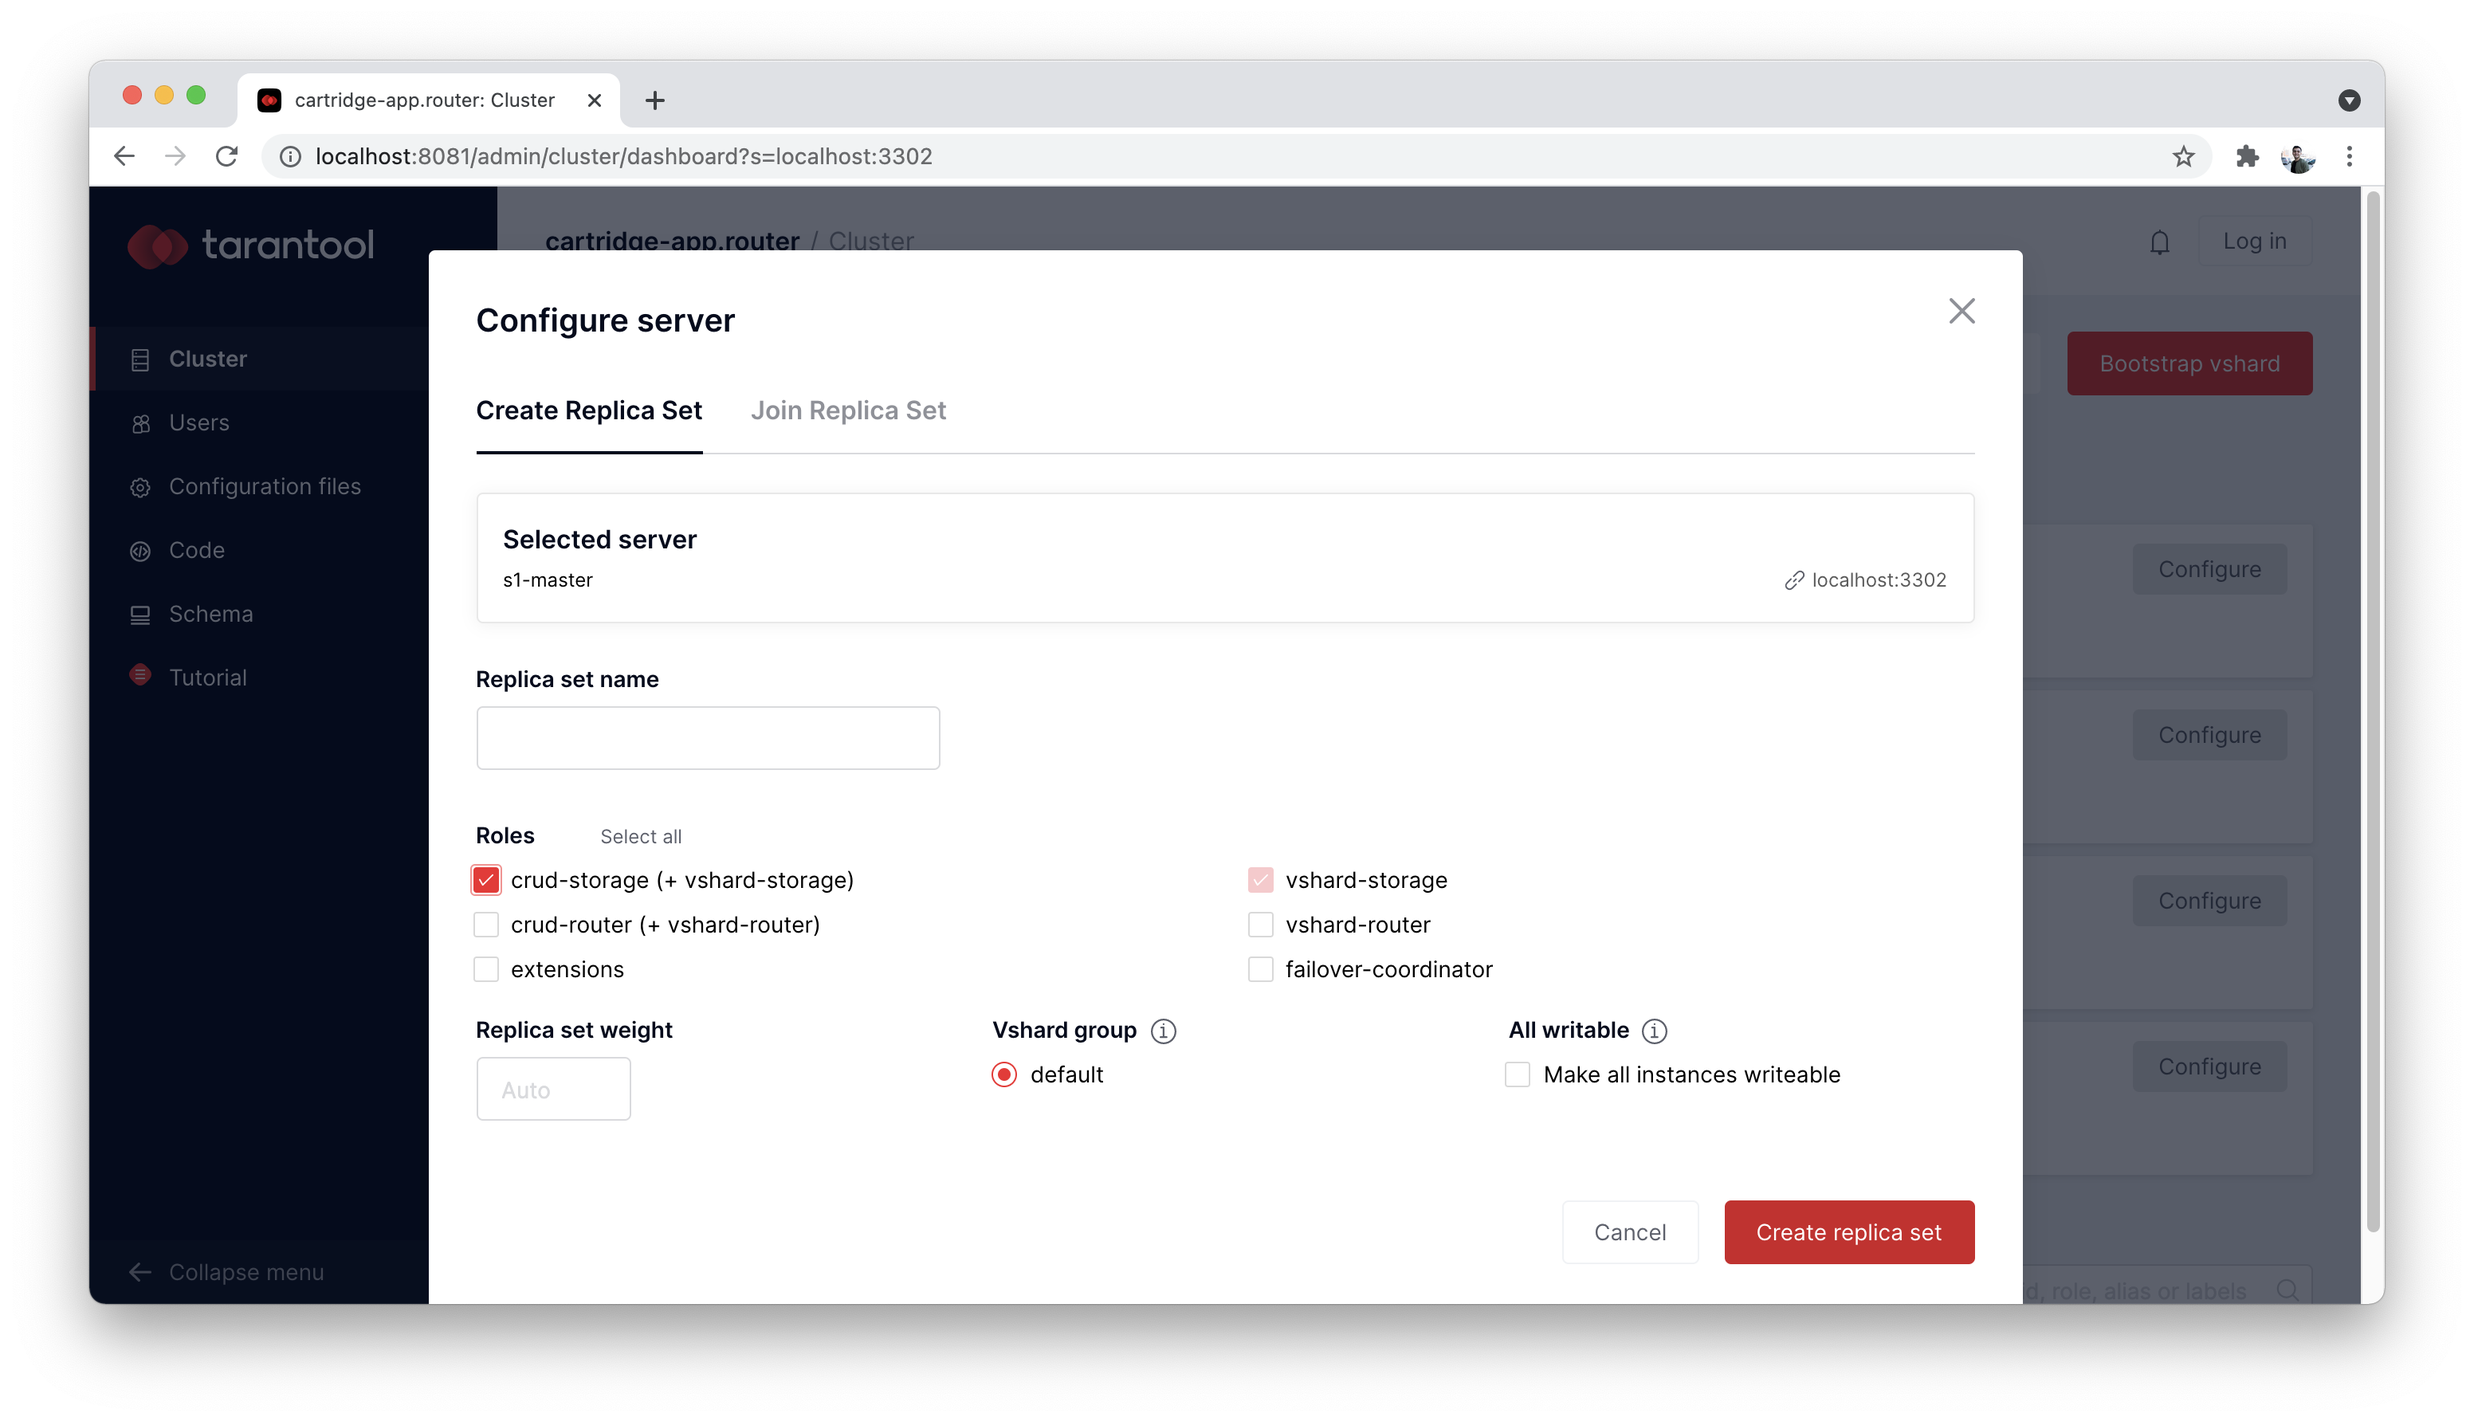
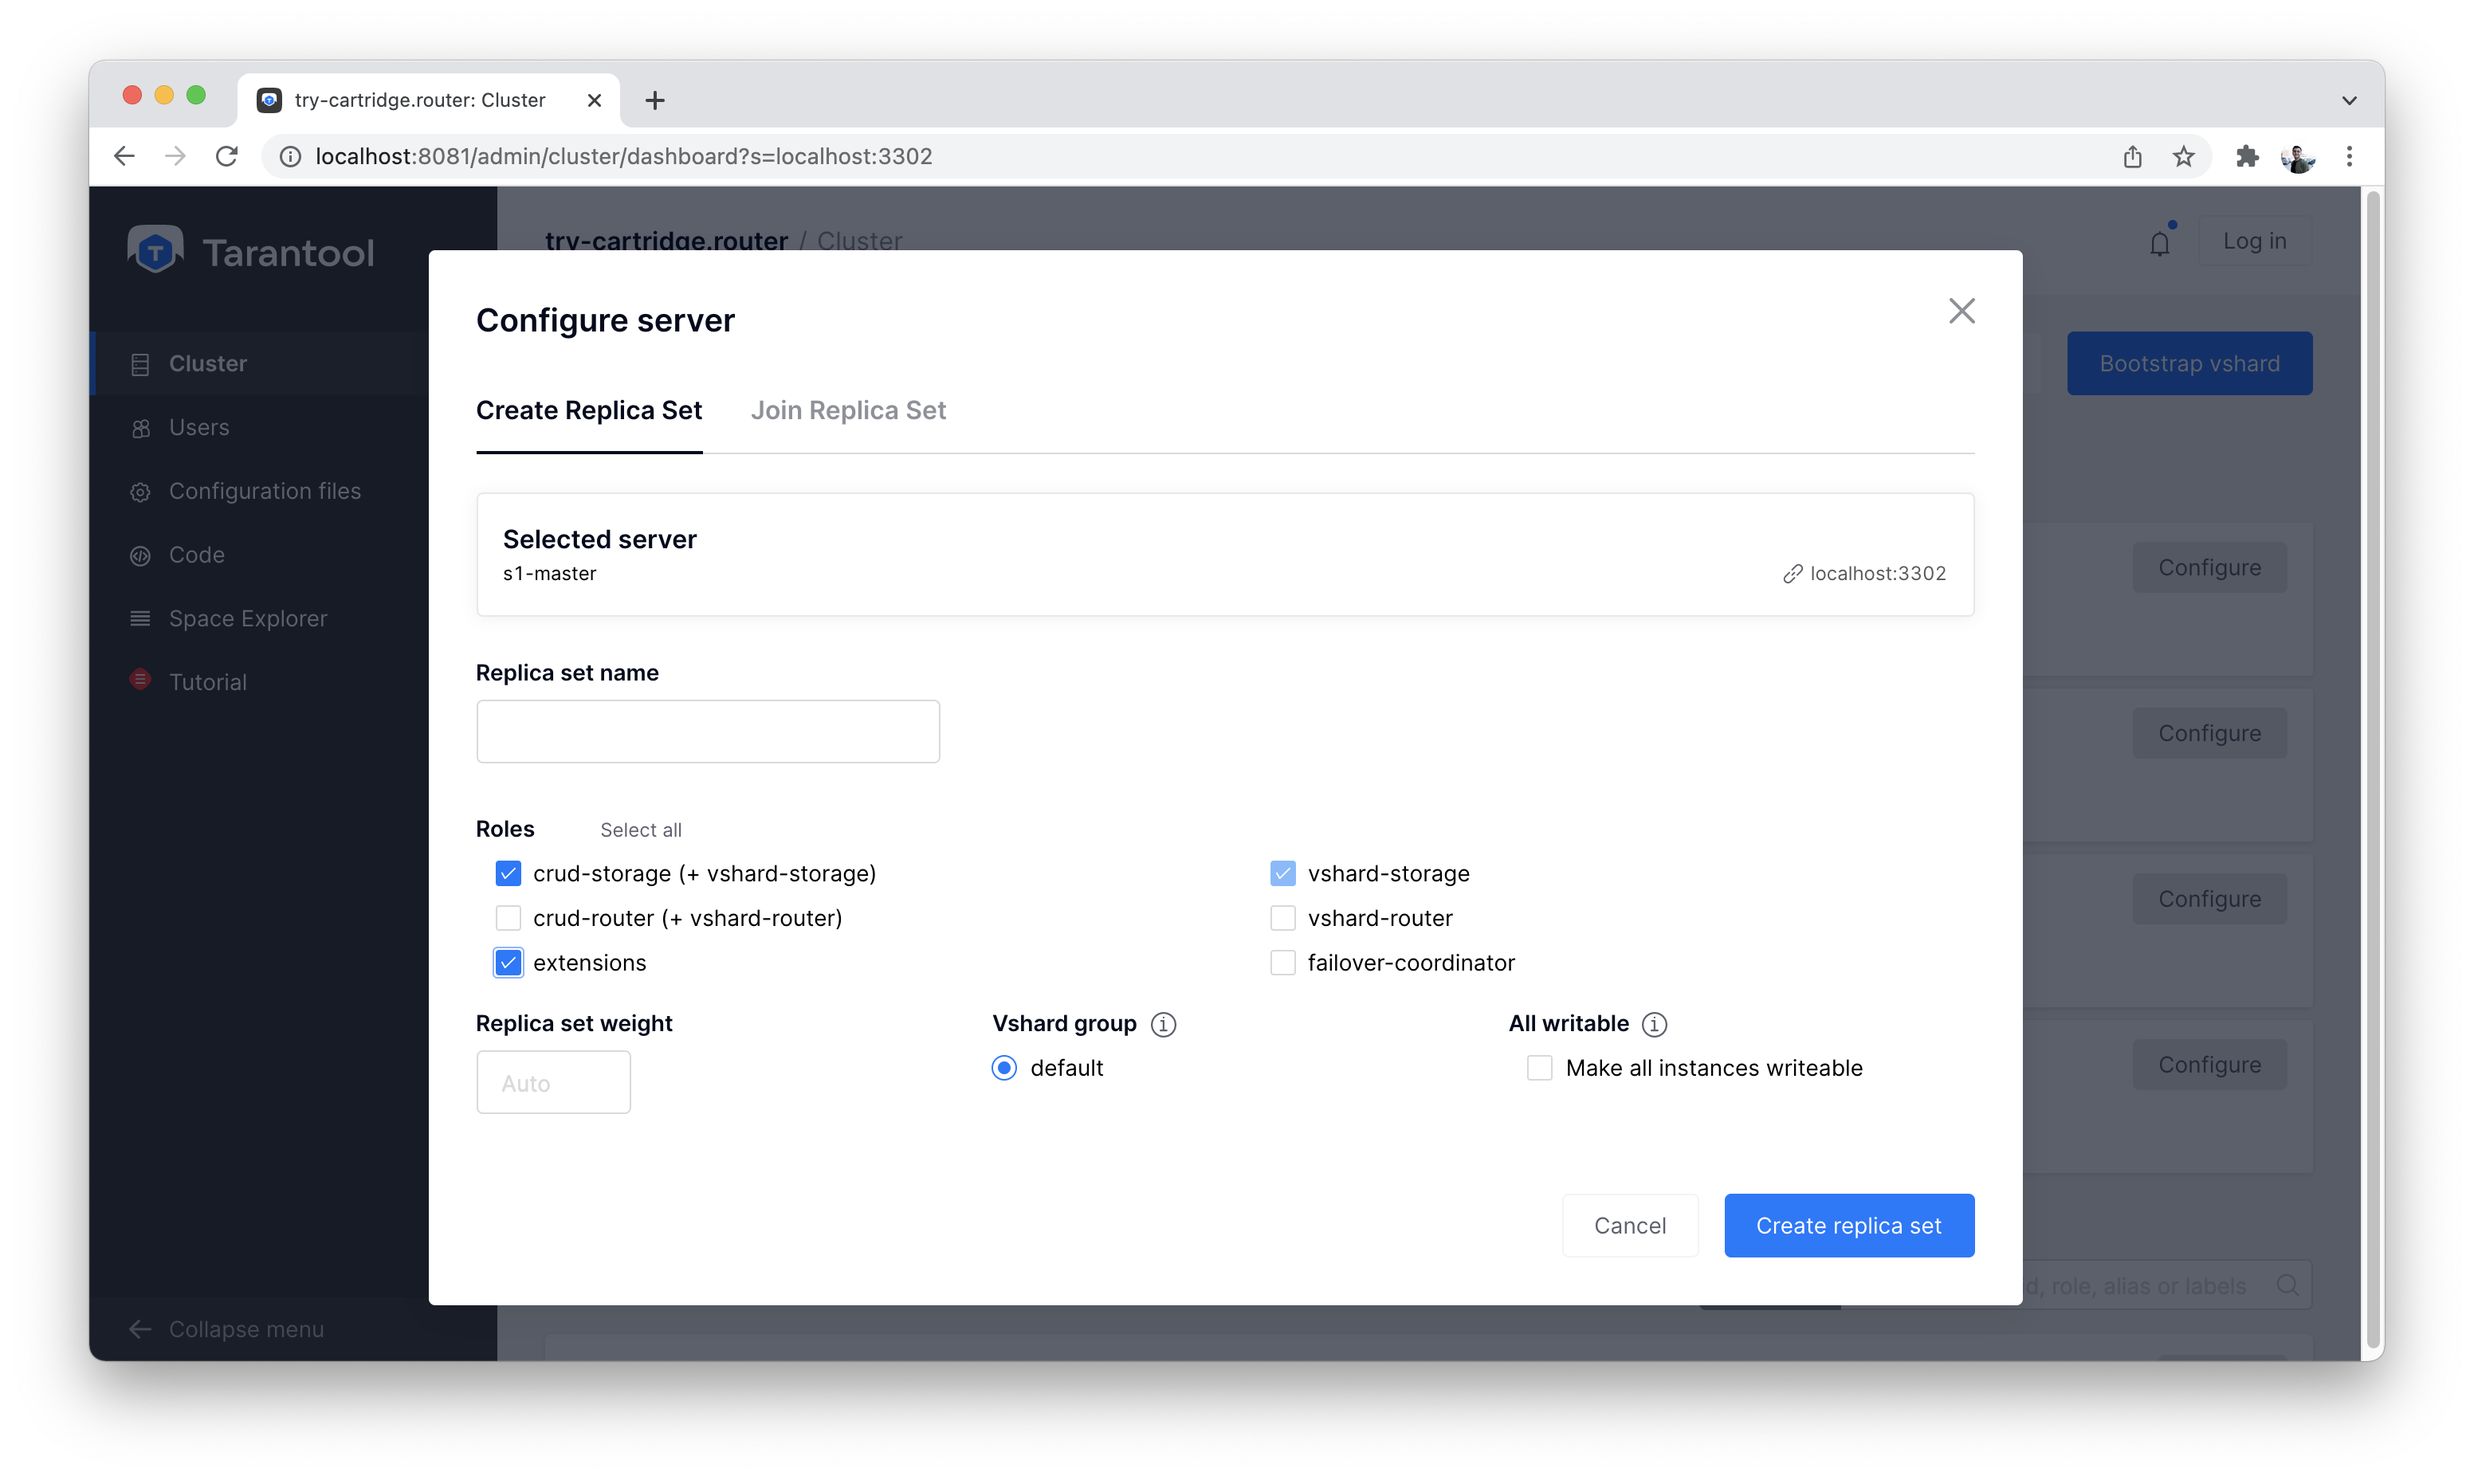
Update screenshots (#41)
* tutorial: update screenshots

* Revert "Merge pull request #26 from tarantool/20_make_extension_permanent"

It's because a user can not understand: why `extension` are not available at the default Cartridge installation.

* tutorial: add mention about docker way

diff --git a/front/tutorial/ru/index.md b/front/tutorial/ru/index.md
@@ -160,9 +160,9 @@ Tarantool.
 
 Их два для каждого спейса:
 
--   первый --- это первичный ключ. Необходим для того, чтобы
+-   первый — это первичный ключ. Необходим для того, чтобы
     читать/писать данные
--   второй --- это индекс для поля `bucket_id`. Это поле служебное и
+-   второй — это индекс для поля `bucket_id`. Это поле служебное и
     используется при шардировании.
 
 **Важно:** название `bucket_id` зарезервированное. Если вы выберите
@@ -354,8 +354,6 @@ Storage получить необходимую информацию.
 Создадим второй шард. Нажимаем на вкладку \"Cluster\", выбираем
 `s2-master` и нажимаем \"Configure\". Выбираем роли так как на картинке:
 
-![Space Explorer, хост s1-master](images/s1-master.png)
-
 ![Cluster, экран конфигурации нового шарда](images/configuring-server.png)
 
 Шелкаем на нужные роли и создаем шард (репликасет).
@@ -377,6 +375,8 @@ Storage получить необходимую информацию.
 Кое-что уже произошло. Зайдем в space-explorer и перейдем на узел
 `s2-master`. Оказывается, часть данных с первого шарда переехала сюда
 автоматически! Масштабирование происходит автоматически.
+
+![Cluster, просмотр узла s2-master](images/scaling.png)
 
 Теперь попробуем добавить еще новых данные в кластер через HTTP API.
 Можем проверить и убедиться, что новые данные также равномерно
@@ -435,9 +435,13 @@ Cartridge.
 
 **Для пользователей Windows:**
 
--   Используйте Docker контейнер с centOS 8 или
--   используйте механизм WSL и следуйте инструкции по установке под
-    Linux.
+Используйте Docker:
+
+```bash
+docker run -p 3301: 3301 -p 8081: 8081 ghcr.io/tarantool/getting-started
+```
+
+Готово! На странице браузера http://localhost:8081 вы сможете увидеть UI Tarantool'а.
 
 ## Читайте также
 

diff --git a/front/tutorial/en/index.md b/front/tutorial/en/index.md
@@ -292,8 +292,6 @@ Read [more in the documentation](https://www.tarantool.io/en/doc/latest/referenc
 
 Create a second shard. Go to the Cluster tab, select `s2-master`, and click Configure. Select the roles as shown in the picture:
 
-![Space Explorer, host s1-master](images/s1-master.png)
-
 ![Space Explorer, configuring new shard](images/configuring-server.png)
 
 Click on the roles and create a shard (replicaset).
@@ -307,6 +305,8 @@ Now you have two shards, or two logical nodes that receive data. The router dete
 To enable a new shard, you have to set its weight to one. Go back to the Cluster tab, open the `s2-master` settings, set Replica set weight to "1" and apply.
 
 Something has already happened. Go to space-explorer and open the `s2-master` node. It turns out that some of the data from the first shard has already migrated here! The scaling is done automatically.
+
+![Cluster, s2-master viewing](images/scaling.png)
 
 Now try to add more data to the cluster using the HTTP API. You can check and make sure that the new data is also evenly distributed among the two shards.
 
@@ -365,7 +365,13 @@ Done! You can see the Tarantool Cartridge UI at [http://localhost:8081](http://l
 
 #### For Windows users
 
-Use a Docker container with СentOS 8 or WSL and follow the Linux installation instructions.
+Use Docker:
+
+```bash
+docker run -p 3301: 3301 -p 8081: 8081 ghcr.io/tarantool/getting-started
+```
+
+Ready! At http://localhost:8081 you will see the Tarantool UI.
 
 ## See also
 
